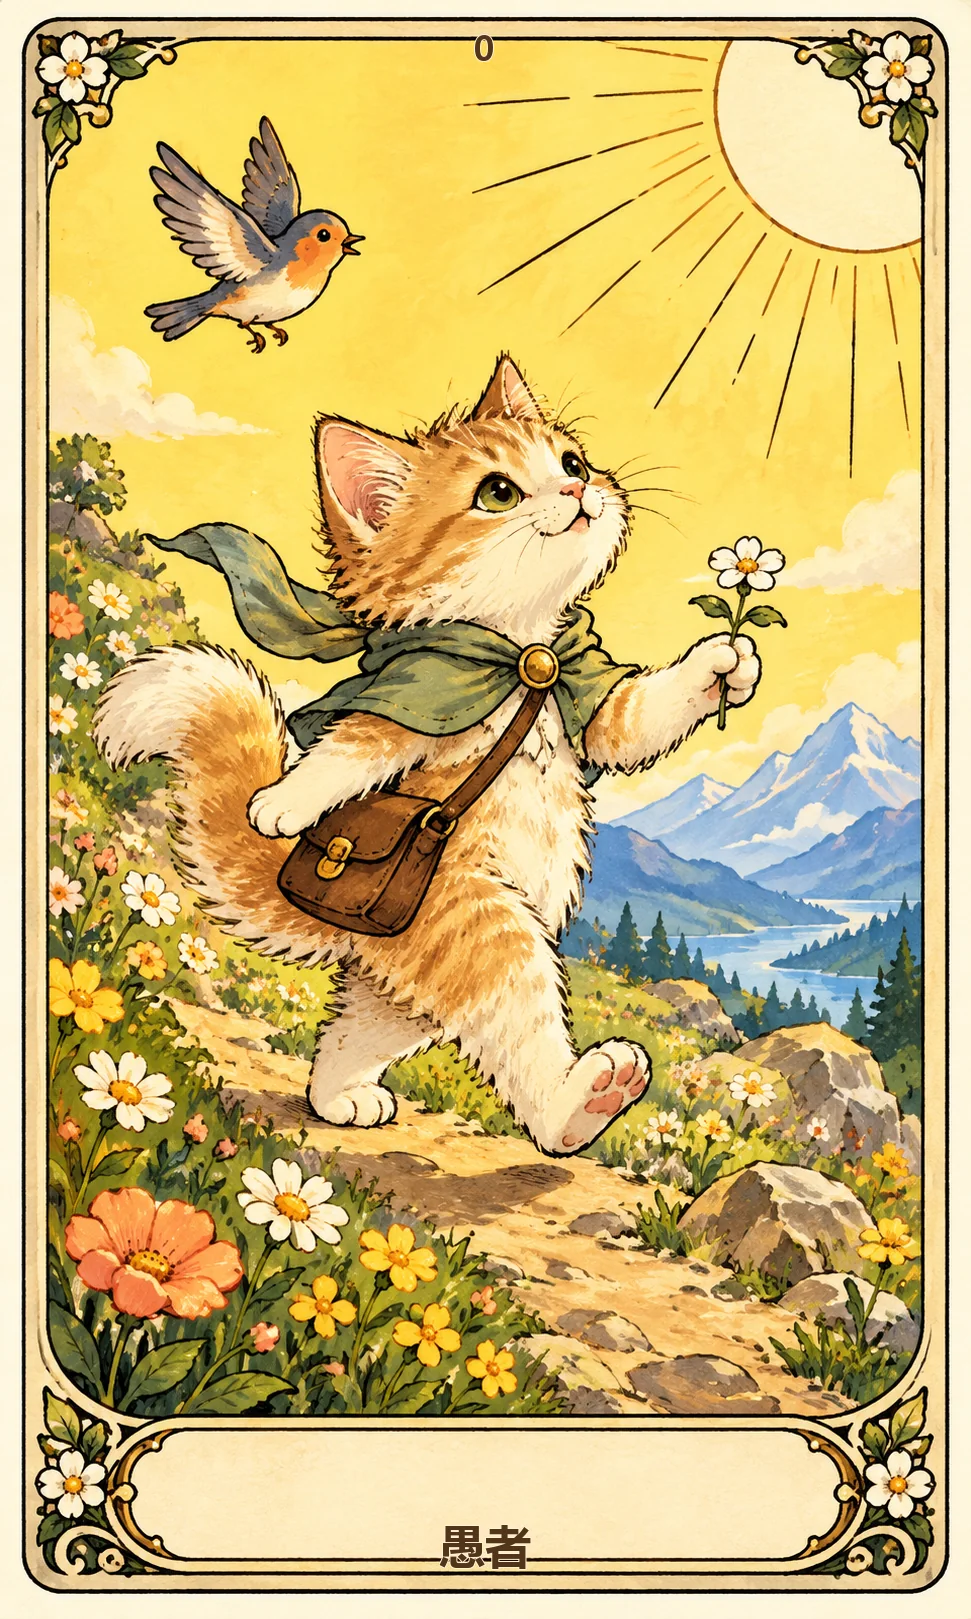
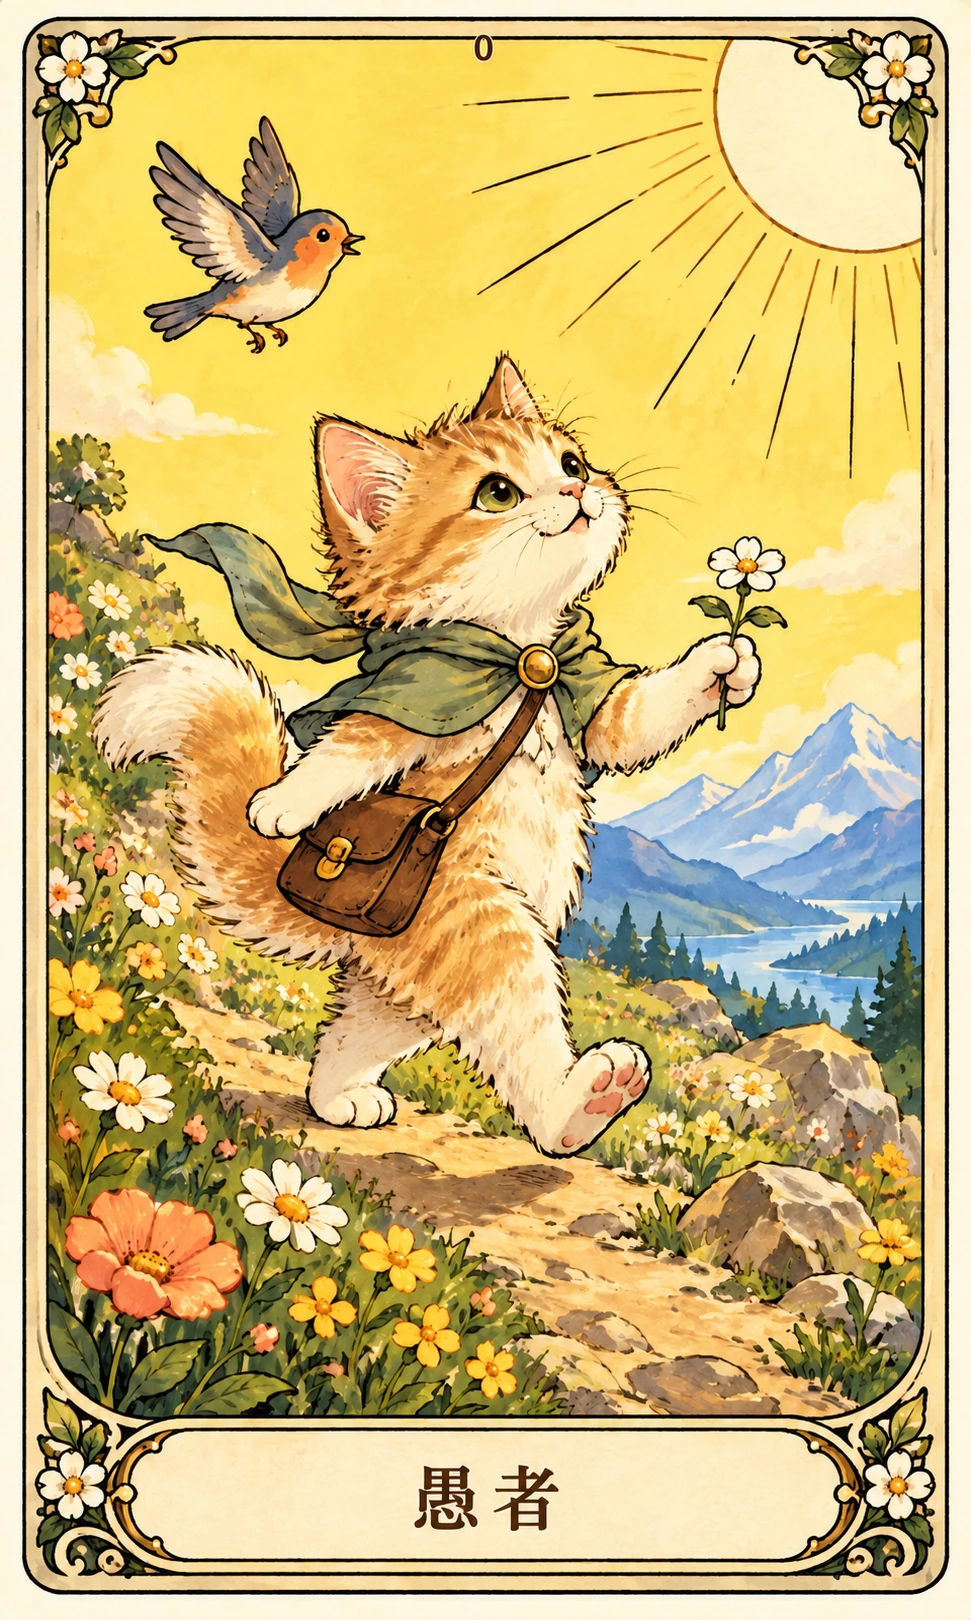
Update corrected tarot card artwork

diff --git a/script.js b/script.js
@@ -218,7 +218,11 @@ function drawOneCard(shouldScroll = false) {
   const isReversed = Math.random() < 0.5;
   previousCardIndex = selectedIndex;
 
-  drawImage.src = new URL(`./assets/tarot-cards/${card.file}`, document.baseURI).href;
+  const cardImageUrl = new URL(`./assets/tarot-cards/${card.file}`, document.baseURI);
+  if (["00-愚者.webp", "08-力量.webp", "19-太陽.webp"].includes(card.file)) {
+    cardImageUrl.searchParams.set("v", "20261020-1");
+  }
+  drawImage.src = cardImageUrl.href;
   drawImage.alt = `${card.name}${isReversed ? "逆位" : "正位"}，暖暖貓咪塔羅牌`;
   drawCardFrame?.classList.toggle("is-reversed", isReversed);
   drawName.textContent = card.name;
